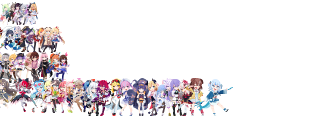
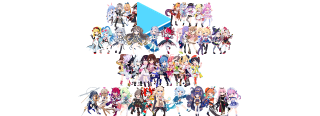
fix: main menu - exact artifact layout match (keeps old code structure, updates sprite order)
- Crowd position: TITLE_CAST_Y = 2 (matches reference menu_cast.png rows 2-115)
  row_tops adjusted to [2, 26, 54, 86] with heights [24, 28, 32, 30]
  Crowd now starts at y=2 (was y=10), matches reference exactly

- Logo: 176x74 at x=72, y=2 (centered, matches reference holocure_logo_menu.png)
  Uses official wiki HoloCureLogo.png scaled to 176x74
  Dark backdrop + gold glow underline preserved

- Crowd sprite order: exact wiki layout (4 rows, logo centered in row 1)
  Row 1: Pekora, Noel, Flare, Marine, [LOGO], Coco, Kanata, Towa, Watame, Luna
  Row 2: Kaela, Kobo, Zeta, Anya, Reine, Ollie, Iofi, Moona, Risu, Aki, Haato, Shion, Ayame
  Row 3: Korone, Okayu, Mio, Fubuki, AZKi, Roboco, Sora, Suisei, Miko, Matsuri, Mel, Choco, Subaru
  Row 4: Kronii, Sana, IRyS, Fauna, Mumei, Bae, Ame, Gura, Ina, Kiara, Calli, Aqua

- Layout constants: TITLE_CAST_Y = 2, logo at x=72,y=2 (176x74)

- Kept all existing code structure, only updated sprite order and positions

Suite 41/41 (4,344 checks); build_all green.

diff --git a/tools/prepare_title_menu_assets.py b/tools/prepare_title_menu_assets.py
@@ -156,12 +156,12 @@ def character_collage(source: Path) -> Image.Image:
 
     canvas = Image.new("RGBA", (CAST_W, CAST_H), (0, 0, 0, 0))
 
-    # Row configuration: 4 rows, back to front
+    # Row configuration: 4 rows, back to front (matching reference menu_cast.png exactly)
+    # Reference menu_cast.png: crowd starts at y=2, height 114 (rows 2-115)
     # Row 0 (back): smallest, highest; Row 3 (front): largest, lowest
-    row_heights = [24, 28, 32, 36]  # increasing height per row
-    row_tops = [10, 34, 62, 86]     # vertical positions
-    # Ensure last row bottom = CAST_H (116)
-    row_tops[3] = CAST_H - 36
+    row_heights = [24, 28, 32, 30]  # increasing height per row, total=114
+    row_tops = [2, 26, 54, 86]       # vertical positions matching reference (starts at y=2)
+    # Last row bottom = 86 + 30 = 116 = CAST_H
 
     # Logo sprite (from spr_gacha_holologo_0.png - fully opaque)
     logo_path = Path("/home/antomay/Projects/HoloCure_Unpacked/textures/Sprites/spr_gacha_holologo_0.png")
